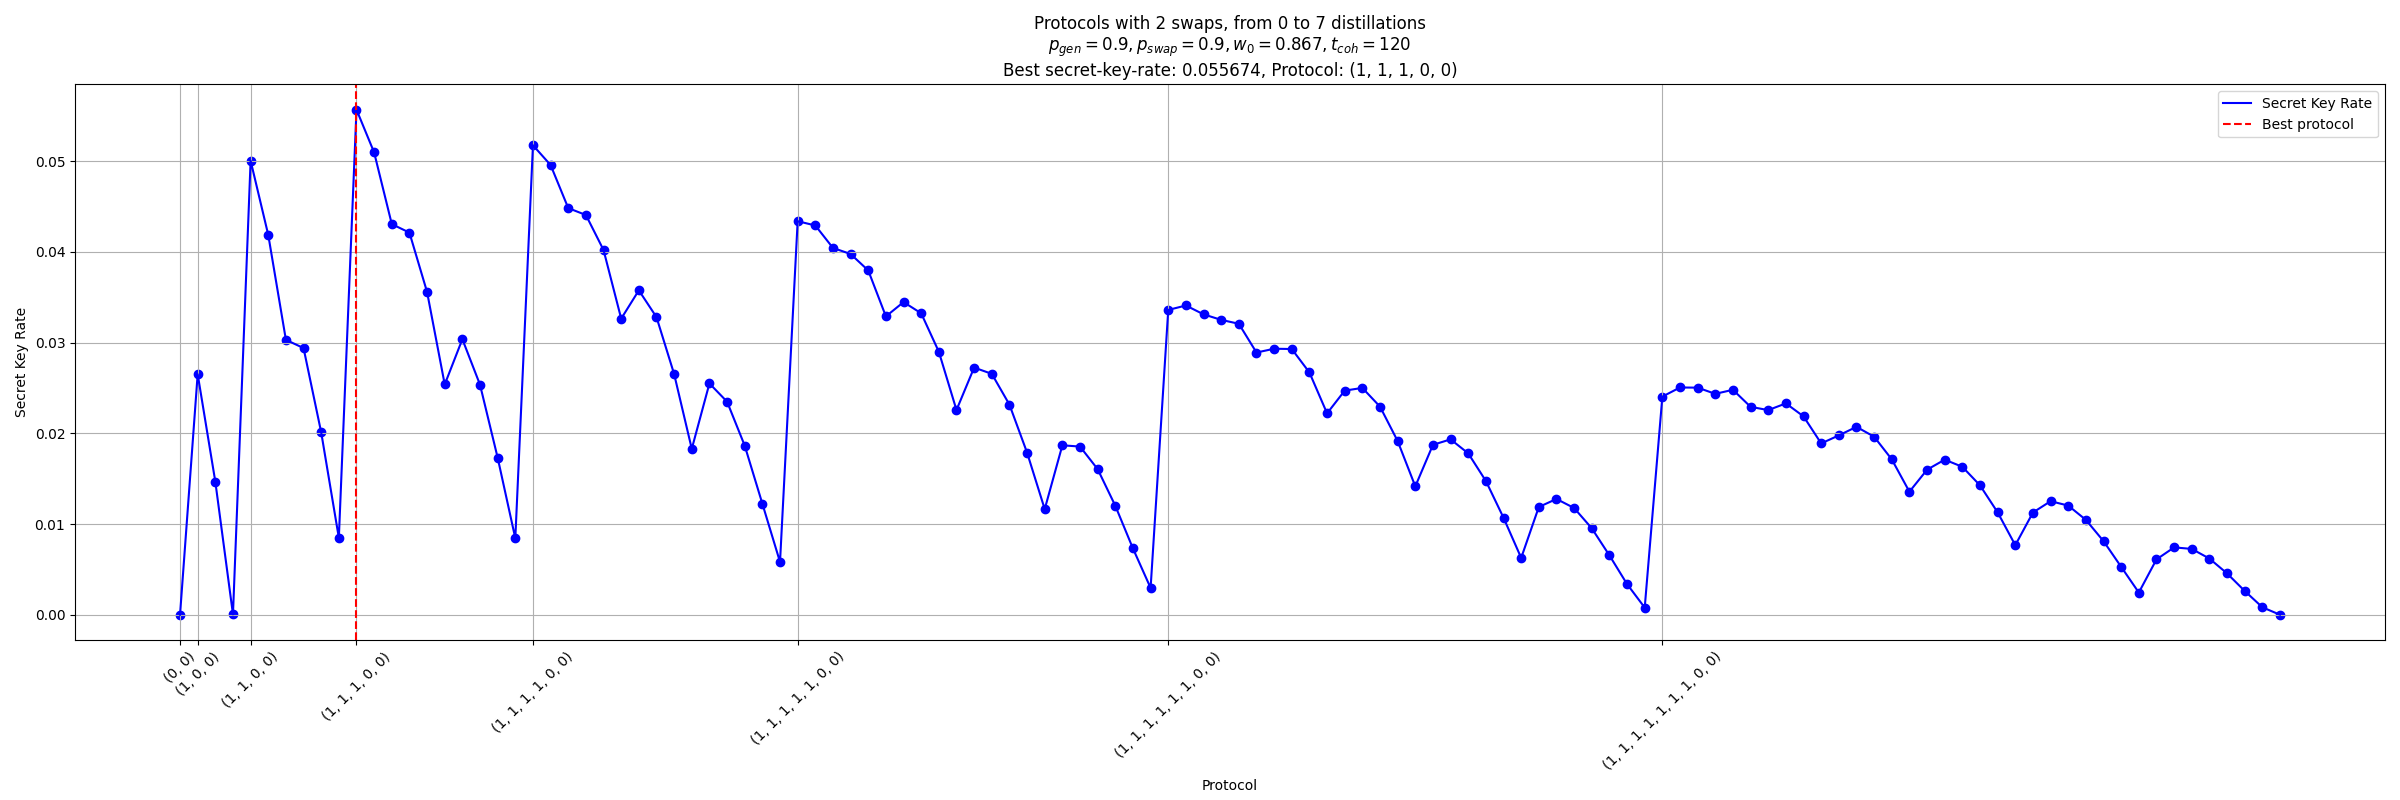
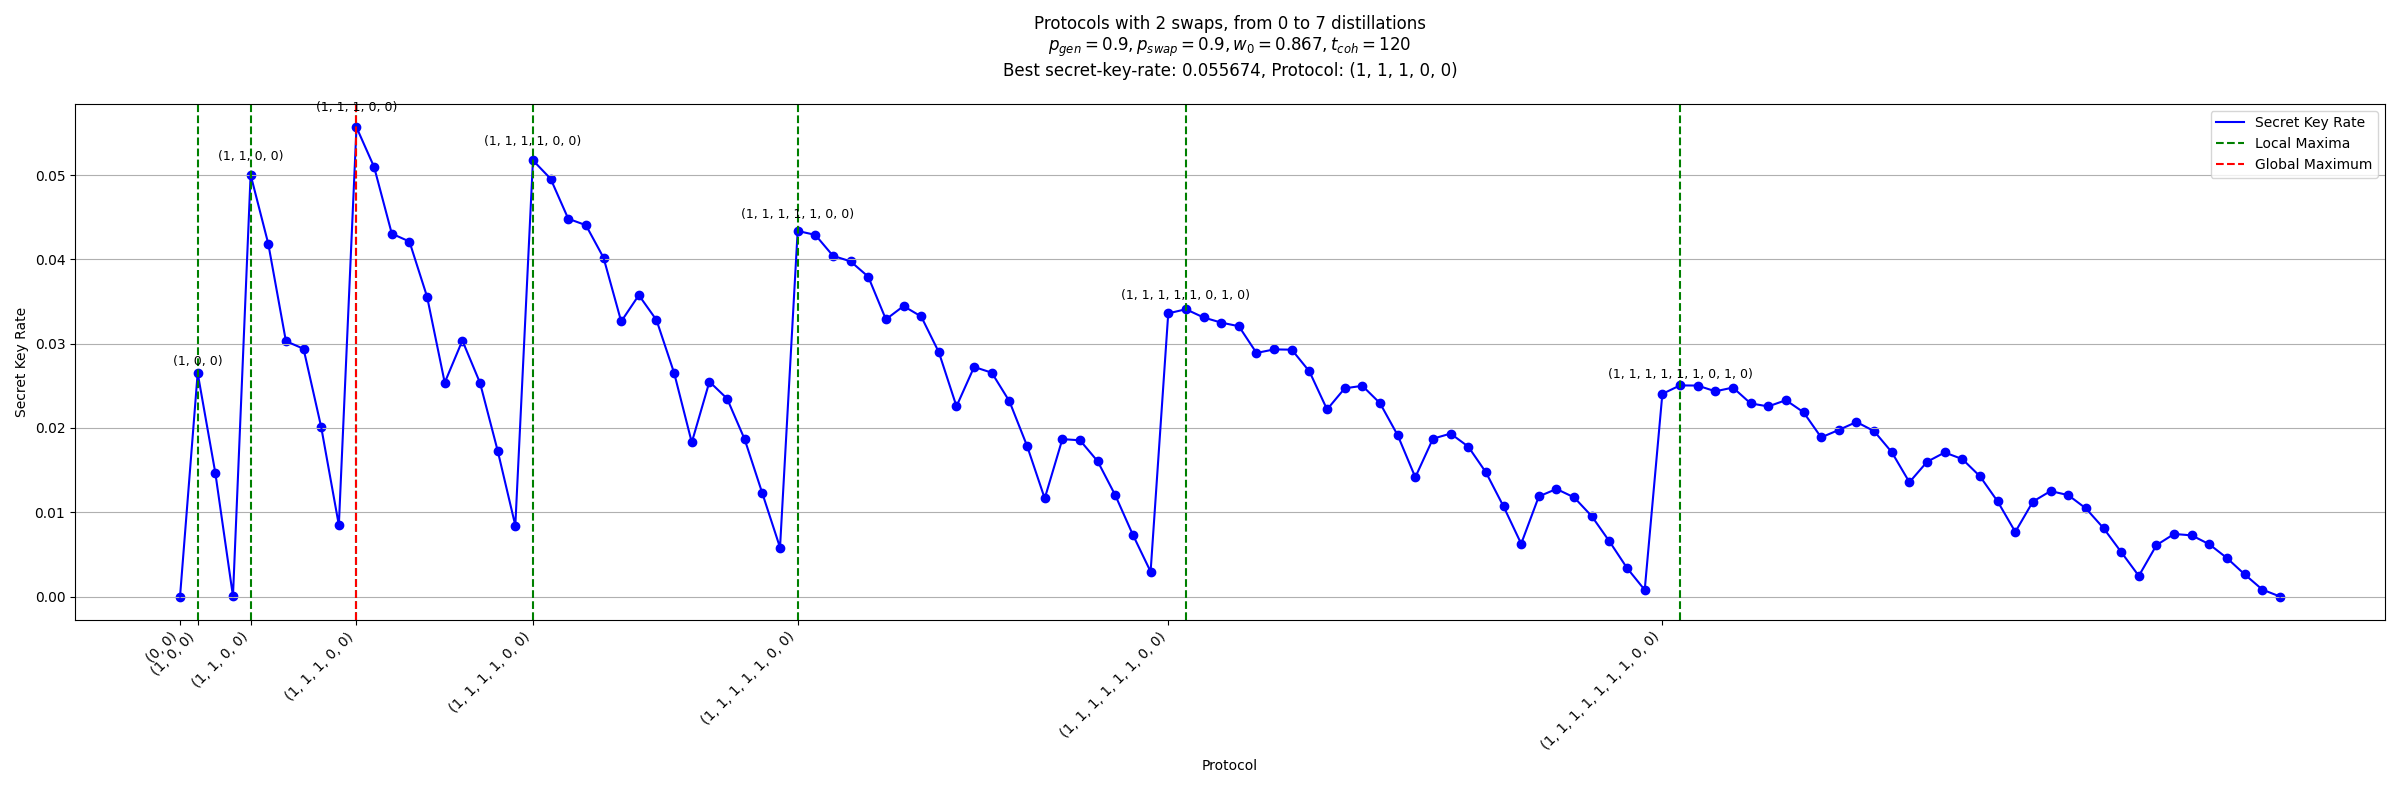
Add bf permute results

diff --git a/distillation_ml_gp.py b/distillation_ml_gp.py
@@ -202,53 +202,87 @@ def write_results(filename, parameters, best_results):
         file.write(output)
 
 
-def plot_results(ordered_results, parameters, number_of_swaps, title, best_protocol, restrict_x_ticks=False):
+def plot_results(results, parameters, number_of_swaps, title, 
+                 maximum: Tuple[np.float64, Tuple[int]], maxima: List[Tuple[np.float64, Tuple[int]]]):
     """
     This function plots the results of the brute force optimization.
     It creates a scatter plot where the y-axis represents the secret key rate,
     and the x-axis represents the protocol. X-axis ticks only show protocols starting with (0,.
     """
-    key_rates = [result[0] for result in ordered_results]
-    protocols = [result[1] for result in ordered_results]
+    key_rates = [result[0] for result in results]
+    protocols = [result[1] for result in results]
+
     protocol_labels = [str(protocol) for protocol in protocols]
+    
+    best_protocol = maximum[1]
     best_protocol_label = str(best_protocol)
 
     plt.figure(figsize=(24, 8))
     plt.scatter(protocol_labels, key_rates, color='b', marker='o')
     plt.plot(protocol_labels, key_rates, color='b', linestyle='-', label='Secret Key Rate')
-    plt.axvline(x=best_protocol_label, color='r', linestyle='--', label='Best protocol')
+    
+    to_label = True
+    for _, maxima_protocol in maxima:
+        if to_label:
+            plt.axvline(x=str(maxima_protocol), color='g', linestyle='--', label='Local Maxima')
+            to_label = False
+        else:
+            plt.axvline(x=str(maxima_protocol), color='g', linestyle='--')
+    
+    plt.axvline(x=best_protocol_label, color='r', linestyle='--', label='Global Maximum')
 
-    plt.title(title)
+    plt.title(title, pad=20)
     plt.xlabel('Protocol')
     plt.ylabel('Secret Key Rate')
     plt.legend()
 
-    if restrict_x_ticks:
-        # TODO: separate the ticks in top and bottom
-        # Show only protocols ending with all swaps (zeros)
-        plt.xticks(
-            ticks=[i for i, p in enumerate(protocol_labels) 
-                   if list(ast.literal_eval(p))[-number_of_swaps:] == [0]*number_of_swaps
-                    or p == best_protocol_label],
-            # labels=[p for p in protocol_labels if list(ast.literal_eval(p))[-number_of_swaps:] == [0]*number_of_swaps],
-            rotation=45,
-        )
-        
-    else:
-        plt.xticks(rotation=45)
+    maxima_labels = [str(maxima_protocol) for _, maxima_protocol in maxima]
     
-    plt.grid(True)
+    # Show only protocols ending with all swaps (zeros)
+    if number_of_swaps != 1:
+        plt.xticks(
+            ticks = [i for i, p in enumerate(protocol_labels) 
+                   if list(ast.literal_eval(p))[-number_of_swaps:] == [0]*number_of_swaps],
+            labels = [p for i, p in enumerate(protocol_labels) 
+                   if list(ast.literal_eval(p))[-number_of_swaps:] == [0]*number_of_swaps],
+        )
+    else:
+        plt.xticks(ticks = range(len(protocol_labels)), labels = protocol_labels)
+    
+    for i, txt in enumerate(protocol_labels):
+        if txt in maxima_labels:
+            plt.text(i, key_rates[i]*1.035, txt, fontsize=9, ha='center', c='g')
+
+    plt.gcf().autofmt_xdate()
+    plt.grid(True, axis='y')
     plt.tight_layout()
-    plt.subplots_adjust(bottom=0.2)
+    plt.subplots_adjust(bottom=0.225)
     plt.savefig(f'{parameters["w0"]}_{number_of_swaps}_swaps_bests.png')
 
 
-def plot_process(min_dists, max_dists, parameters, number_of_swaps, results, gp_result:OptimizeResult=None):
+def get_all_maxima(ordered_results: List[Tuple[np.float64, Tuple[int]]], min_dists, max_dists) -> List[Tuple[np.float64, Tuple[int]]]:
+    """
+    Get all the maxima from the results: the secret key rate and the protocol
+        for the best secret key rate for each distillation number
+    """
+    maxima = []
+    for number_of_dists in range(min_dists, max_dists + 1):
+        maximum = max([result for result in ordered_results if result[1].count(1) == number_of_dists], key=lambda x: x[0])
+        # Do not append if the maximum is zero
+        if maximum[0] > 0:
+            maxima.append(maximum)
+    return maxima
+
+
+def plot_process(min_dists, max_dists, parameters, number_of_swaps, 
+                 results: List[Tuple[np.float64, Tuple[int]]], gp_result:OptimizeResult=None):
     """
     Invoke skopt plot functions to visualize the optimization results.
     """
-    ordered_results = sorted(results, key=lambda x: x[0], reverse=True)
-    best_key_rate, best_protocol = ordered_results[0][0], ordered_results[0][1]
+    ordered_results: List[Tuple[np.float64, Tuple[int]]] = sorted(results, key=lambda x: x[0], reverse=True)
+
+    maximum: Tuple[np.float64, Tuple[int]]  = (ordered_results[0][0], ordered_results[0][1])
+    maxima: List[Tuple[np.float64, Tuple[int]]] = get_all_maxima(ordered_results, min_dists, max_dists)
 
     title = (
         f"Protocols with {number_of_swaps} swap{'' if number_of_swaps==1 else 's'}, "
@@ -257,7 +291,7 @@ def plot_process(min_dists, max_dists, parameters, number_of_swaps, results, gp_
         f"p_{{swap}} = {parameters['p_swap']}, "
         f"w_0 = {parameters['w0']}, "
         f"t_{{coh}} = {parameters['t_coh']}$"
-        f"\nBest secret-key-rate: {best_key_rate:.6f}, Protocol: {best_protocol}"
+        f"\nBest secret-key-rate: {maximum[0]:.6f}, Protocol: {maximum[1]}"
     )   
 
     if gp_result is not None:
@@ -274,7 +308,7 @@ def plot_process(min_dists, max_dists, parameters, number_of_swaps, results, gp_
         fig.suptitle(title)
         fig.savefig(f'{parameters["w0"]}_{number_of_swaps}_swaps_gp.png')
     
-    plot_results(results, parameters, number_of_swaps, title, best_protocol, restrict_x_ticks=True)
+    plot_results(results, parameters, number_of_swaps, title, maximum, maxima)
 
 
 def get_no_of_permutations_per_swap(min_dists, max_dists, s):
@@ -340,7 +374,7 @@ def brute_force_optimization(parameters_set, space_type, min_swaps, max_swaps, m
 
         for number_of_swaps in range(min_swaps, max_swaps+1):
             print(f"\n\nNumber of swaps: {number_of_swaps}")
-            ordered_results: List[Tuple[np.float64, Tuple[int]]] = []
+            results: List[Tuple[np.float64, Tuple[int]]] = []
 
             space = []
             if space_type == "one_level":
@@ -361,18 +395,15 @@ def brute_force_optimization(parameters_set, space_type, min_swaps, max_swaps, m
                     if cdf_coverage < cdf_threshold:
                         raise ThresholdExceededError(extra_info={'cdf_coverage': cdf_coverage})
                     
-                    # if (number_of_swaps not in best_results or 
-                    #     best_results[number_of_swaps][1] is None 
-                    #     or secret_key_rate > best_results[number_of_swaps][1]):
-                    #     best_results[number_of_swaps] = (protocol, secret_key_rate, None)
-                    ordered_results.append((secret_key_rate, protocol))
+                    results.append((secret_key_rate, protocol))
                 
                 except ThresholdExceededError as e:
                     best_results[number_of_swaps] = (None, None, e.extra_info['cdf_coverage'])
                     break
                 
-            plot_process(min_dists, max_dists, parameters, number_of_swaps, ordered_results)
-            ordered_results = sorted(ordered_results, key=lambda x: x[0], reverse=True)
+            plot_process(min_dists, max_dists, parameters, number_of_swaps, results)
+
+            ordered_results: List[Tuple[np.float64, Tuple[int]]] = sorted(results, key=lambda x: x[0], reverse=True)
             best_results[number_of_swaps] = (ordered_results[0][0], ordered_results[0][1], None)
 
         write_results(filename, parameters, best_results)
@@ -487,7 +518,7 @@ if __name__ == "__main__":
     parser: ArgumentParser = ArgumentParser()
 
     parser.add_argument("--min_swaps", type=int, default=1, help="Minimum number of swaps")
-    parser.add_argument("--max_swaps", type=int, default=3, help="Maximum number of swaps")
+    parser.add_argument("--max_swaps", type=int, default=1, help="Maximum number of swaps")
     parser.add_argument("--min_dists", type=int, default=0, help="Minimum amount of distillations to be performed")
     parser.add_argument("--max_dists", type=int, default=7, help="Maximum amount of distillations to be performed")
     parser.add_argument("--optimizer", type=str, default="bf", help="Optimizer to be used")
@@ -512,10 +543,28 @@ if __name__ == "__main__":
 
     parameters_set = [
         {
-            't_coh': 120,
-            'p_gen': 0.9,
-            'p_swap': 0.9,
+            't_coh': 10**4,
+            'p_gen': 0.5,
+            'p_swap': 0.5,
             'w0': 0.867
+        },
+        {
+            't_coh': 10**4,
+            'p_gen': 0.5,
+            'p_swap': 0.5,
+            'w0': 0.9
+        },
+        {
+            't_coh': 10**4,
+            'p_gen': 0.5,
+            'p_swap': 0.5,
+            'w0': 0.98
+        },
+        {
+            't_coh': 10**4,
+            'p_gen': 0.5,
+            'p_swap': 0.5,
+            'w0': 1.0
         },
     ]
 
